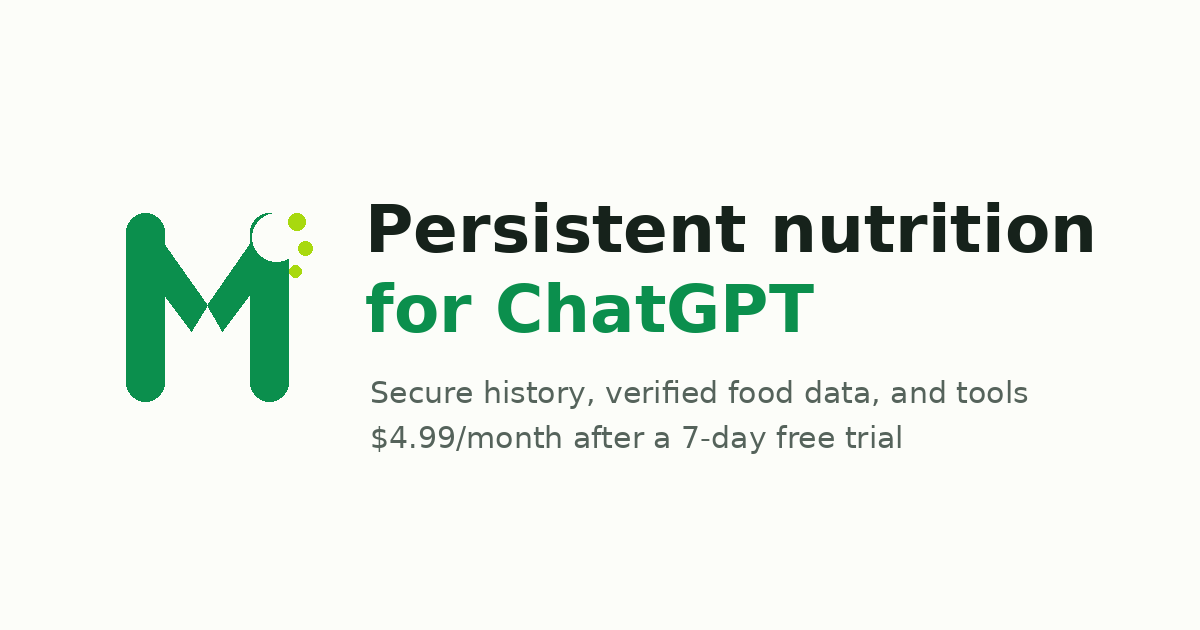
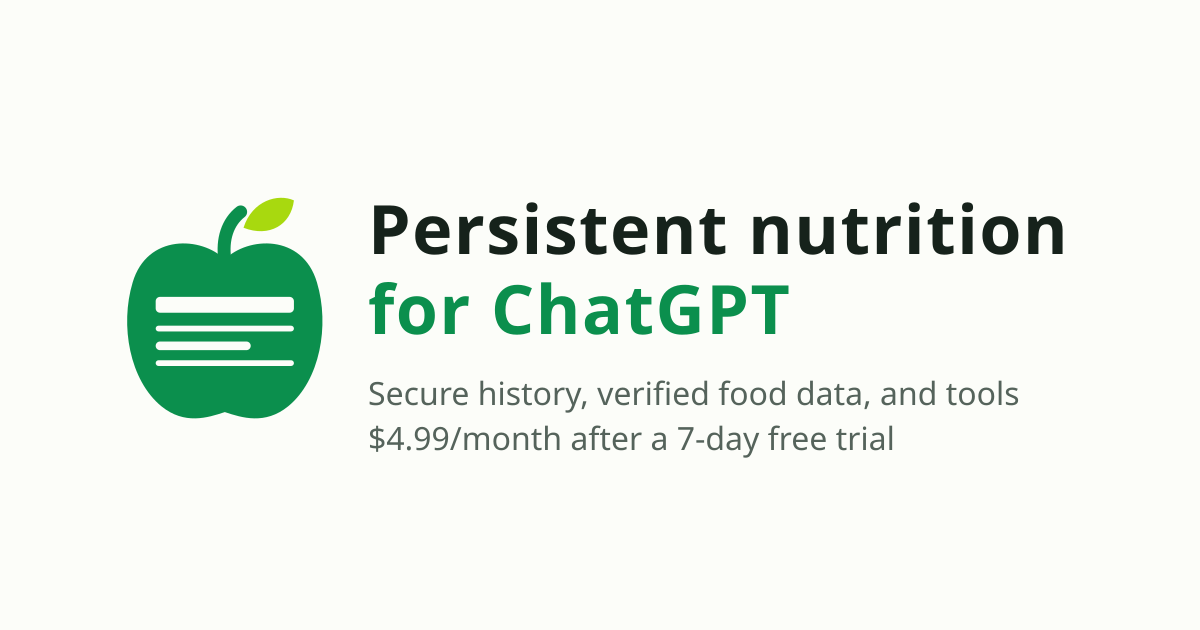
brand: rebuild og social card with the printed-label apple
The 1200x630 card keeps its copy and composition verbatim (headline
'Persistent nutrition / for ChatGPT', both subtext lines, #FCFDF9
ground, #16221B / #0B8F4D / #55635B palette) with the retired M swapped
for the apple mark adopted in #165.

Adds public/og.svg as the reproducible source (mark geometry embedded
from public/brand/munch-mark.svg); og.png is rendered from it with
ffmpeg. DESIGN.md's brand section now documents the card.

diff --git a/DESIGN.md b/DESIGN.md
@@ -39,5 +39,8 @@ direction round (Facts Panel direction; contract in
 geometry was drawn as SVG in-repo; the exploratory AI-generated comps in
 `.impeccable/mocks/` are decision records, not sources.
 
-Known follow-up: `public/og.png` (1200×630 social card) still composes
-the retired M mark and needs a redesign pass.
+Social card: `public/og.png` (1200×630) composes the primary glyph on
+`#FCFDF9` beside the headline "Persistent nutrition / for ChatGPT" (dark
+`#16221B` over brand green) and two subtext lines in `#55635B`. Its
+source is `public/og.svg` — copy preserved verbatim from the previous
+card; re-render with `ffmpeg -y -i public/og.svg public/og.png`.
